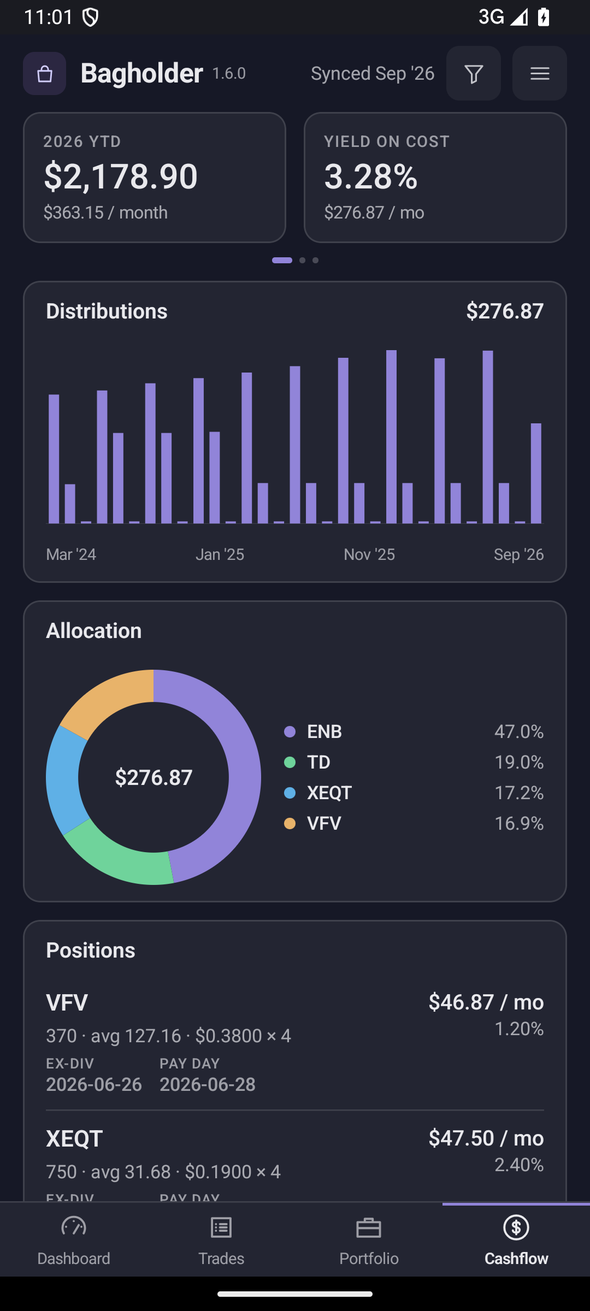
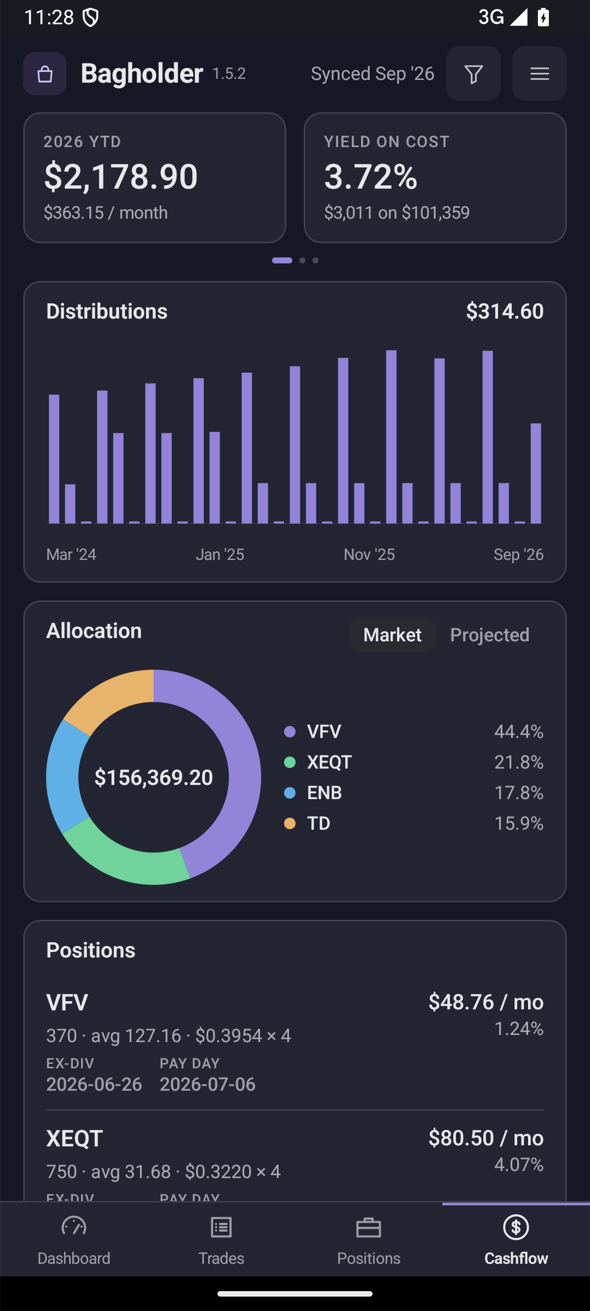
Phones keep their Cashflow screens: the Cashflow tweaks are desktop-only.
The Market / Projected switch, the tile lines and the tile set on the
phones are back to master's; only a tile the phones do not show is
kept out of their year tiles. The models stay in agreement, as the
shared cases require. SPEC §8 and the README phone images back to
master's.

diff --git a/ios/Bagholder/Screens.swift b/ios/Bagholder/Screens.swift
@@ -1111,6 +1111,7 @@ struct CashflowScreen: View {
     @Environment(\.theme) private var t
     @ObservedObject var book: Book
     let chrome: Chrome
+    @AppStorage("bagholder.allocationBy") private var allocBy = "market"
     @State private var picked: Int?
     @State private var distPick: Int? = nil
 
@@ -1145,15 +1146,15 @@ struct CashflowScreen: View {
     private func tiles(_ cf: BHCashflowView) -> some View {
         func tile(_ tile: BHTile) -> Tile {
             if tile.label == "Yield on cost" {
-                return Tile(label: tile.label, value: BHFmt.pct(tile.yield, digits: 2, signed: false), subtitle: BHFmt.money(tile.projected) + " / mo")
+                return Tile(label: tile.label, value: BHFmt.pct(tile.yield, digits: 2, signed: false), subtitle: BHFmt.wholeMoney(tile.earned) + " on " + BHFmt.wholeMoney(tile.book))
             }
-            return Tile(label: tile.label, value: BHFmt.money(tile.total), subtitle: tile.label == "All time" ? "total earned" : BHFmt.money(tile.perMonth) + " / month")
+            return Tile(label: tile.label, value: BHFmt.money(tile.total), subtitle: BHFmt.money(tile.perMonth) + " / month")
         }
         // YTD and Yield on cost first, then All time and the past years
         let ytd = cf.tiles.first { $0.label.hasSuffix("YTD") }
         let yoc = cf.tiles.first { $0.label == "Yield on cost" }
         let all = cf.tiles.first { $0.label == "All time" }
-        let years = cf.tiles.filter { !$0.label.hasSuffix("YTD") && $0.label != "Yield on cost" && $0.label != "All time" }.reversed()
+        let years = cf.tiles.filter { !$0.label.hasSuffix("YTD") && $0.label != "Yield on cost" && $0.label != "All time" && $0.label != "Margin used" }.reversed()
         let ordered = [ytd, yoc, all].compactMap { $0 } + years
         return TilePager(tiles: ordered.map(tile))
     }
@@ -1173,10 +1174,18 @@ struct CashflowScreen: View {
 
     private func allocation(_ cf: BHCashflowView) -> some View {
         let items: [(label: String, value: Double)] = cf.holdings.map { h in
-            (h.symbol + (cf.holdings.filter { $0.symbol == h.symbol }.count > 1 ? " · " + h.account : ""), (h.annual ?? 0) / 12)
+            (h.symbol + (cf.holdings.filter { $0.symbol == h.symbol }.count > 1 ? " · " + h.account : ""), allocBy == "projected" ? (h.annual ?? 0) / 12 : h.qty * h.last)
         }.filter { $0.value > 0 }.sorted { $0.value > $1.value }
         let total = items.reduce(0.0) { $0 + $1.value }
-        return Card(title: "Allocation") {
+        let switcher = HStack(spacing: 0) {
+            ForEach(["market", "projected"], id: \.self) { k in
+                Button(k == "market" ? "Market" : "Projected") { allocBy = k; picked = nil }
+                    .font(.system(size: 13, weight: .medium)).foregroundStyle(allocBy == k ? t.ink : t.ink55)
+                    .padding(.horizontal, 10).padding(.vertical, 4)
+                    .background(RoundedRectangle(cornerRadius: 7).fill(allocBy == k ? t.well : .clear))
+            }
+        }
+        return Card(title: "Allocation", trailing: AnyView(switcher)) {
             if items.isEmpty { Text("No income holdings in scope.").font(.system(size: 14)).foregroundStyle(t.ink55) }
             else {
                 HStack(alignment: .center, spacing: 16) {

diff --git a/android/app/src/main/kotlin/com/bagholder/app/MainActivity.kt b/android/app/src/main/kotlin/com/bagholder/app/MainActivity.kt
@@ -991,6 +991,7 @@ fun rateLine(h: Holding): String {
 fun CashflowScreen(chrome: Chrome) {
     val t = LocalTheme.current
     val v = Book.view
+    var allocBy by remember { mutableStateOf(Store.allocationBy) }
     var picked by remember { mutableStateOf<Int?>(null) }
     var distPick by remember { mutableStateOf<Int?>(null) }
     Column(Modifier.fillMaxSize()) {
@@ -1012,10 +1013,17 @@ fun CashflowScreen(chrome: Chrome) {
             }
             item {
                 val items = cf.holdings.map { h ->
-                    Pair(h.symbol + if (cf.holdings.count { it.symbol == h.symbol } > 1) " · " + h.account else "", (h.annual ?: 0.0) / 12)
+                    Pair(h.symbol + if (cf.holdings.count { it.symbol == h.symbol } > 1) " · " + h.account else "", if (allocBy == "projected") (h.annual ?: 0.0) / 12 else h.qty * h.last)
                 }.filter { it.second > 0 }.sortedByDescending { it.second }
                 val total = items.sumOf { it.second }
-                Card("Allocation") {
+                Card("Allocation", trailing = {
+                    Row {
+                        for (k in listOf("market", "projected")) {
+                            Text(if (k == "market") "Market" else "Projected", fontSize = 13.sp, fontWeight = FontWeight.Medium, color = if (allocBy == k) t.ink else t.ink55,
+                                modifier = Modifier.clip(RoundedCornerShape(7.dp)).background(if (allocBy == k) t.well else Color.Transparent).clickable { allocBy = k; Store.allocationBy = k; picked = null }.padding(horizontal = 10.dp, vertical = 4.dp))
+                        }
+                    }
+                }) {
                     if (items.isEmpty()) Muted("No income holdings in scope.")
                     else Row(verticalAlignment = Alignment.CenterVertically, horizontalArrangement = Arrangement.spacedBy(16.dp)) {
                         DonutChart(items, picked, { picked = it })
@@ -1090,13 +1098,13 @@ private fun CashflowTiles(cf: CashflowView) {
     val ytd = cf.tiles.firstOrNull { it.label.endsWith("YTD") }
     val yoc = cf.tiles.firstOrNull { it.label == "Yield on cost" }
     val all = cf.tiles.firstOrNull { it.label == "All time" }
-    val years = cf.tiles.filter { !it.label.endsWith("YTD") && it.label != "Yield on cost" && it.label != "All time" }.reversed()
+    val years = cf.tiles.filter { !it.label.endsWith("YTD") && it.label != "Yield on cost" && it.label != "All time" && it.label != "Margin used" }.reversed()
     val ordered = listOfNotNull(ytd, yoc, all) + years
     val tiles = mutableListOf<@Composable (Modifier) -> Unit>()
     for (tile in ordered) {
         tiles.add { m ->
-            if (tile.label == "Yield on cost") Tile(tile.label, Fmt.pct(tile.yield, 2, false), Fmt.money(tile.projected) + " / mo", modifier = m)
-            else Tile(tile.label, Fmt.money(tile.total), if (tile.label == "All time") "total earned" else Fmt.money(tile.perMonth) + " / month", modifier = m)
+            if (tile.label == "Yield on cost") Tile(tile.label, Fmt.pct(tile.yield, 2, false), Fmt.wholeMoney(tile.earned) + " on " + Fmt.wholeMoney(tile.book), modifier = m)
+            else Tile(tile.label, Fmt.money(tile.total), Fmt.money(tile.perMonth) + " / month", modifier = m)
         }
     }
     TilePager(tiles)

diff --git a/android/app/src/main/kotlin/com/bagholder/app/Store.kt b/android/app/src/main/kotlin/com/bagholder/app/Store.kt
@@ -180,4 +180,7 @@ object Store {
         else -> v
     }
 
+    var allocationBy: String
+        get() = prefs.getString("allocationBy", "market") ?: "market"
+        set(v) = prefs.edit().putString("allocationBy", v).apply()
 }

diff --git a/SPEC.md b/SPEC.md
@@ -286,7 +286,7 @@ The iOS and Android apps show the same figures as the web page, computed on the 
 
 **Cards.** 12 pt above and below the content, 16 pt at the sides, a 24 pt header row with a 15 pt semibold title at its top; a control at the right of the header (the index toggle, a sort menu, a figure) sits in that row. Nothing under a title: no captions, subtitles or helper lines, no "All accounts", no "Vs S&P 500" (the toggle itself reads `Vs S&P 500`), no "CAD", no "Outperformed … in N of M years", no "Dividend" beside a history row.
 
-**Tiles.** Two per page in a row that swipes sideways, with the indicator below: 4 pt dots at 24 % ink, a 14 × 4 accent pill for the current page. Dashboard: Realized P&L, Win rate; Profit factor, Expectancy; Max drawdown, Avg annualized. Portfolio: Market value, Net asset value; Cost basis, Margin used; Available margin, Unrealized P&L. Cashflow: the year to date, Yield on cost; All time, Margin used (its line `$x/mo margin interest` in whole dollars); then the past years, newest first.
+**Tiles.** Two per page in a row that swipes sideways, with the indicator below: 4 pt dots at 24 % ink, a 14 × 4 accent pill for the current page. Dashboard: Realized P&L, Win rate; Profit factor, Expectancy; Max drawdown, Avg annualized. Portfolio: Market value, Net asset value; Cost basis, Margin used; Available margin, Unrealized P&L. Cashflow: the year to date, Yield on cost; All time, then the past years, newest first.
 
 **Charts.** No value axis. The card's figure sits at its top right: Equity shows the latest point, P&L the sum in scope, Distributions the projected month. The Equity line runs edge to edge, scaled from its low to its high, 160 pt tall, four date labels below. A long press reads the point under the finger from the first touch: the figure at the top right becomes that day's or month's, the date or month appears at the bottom under the finger, the rest of the chart dims (the equity line and its fill keep their colour up to the finger, the marker is a ring), and the page and any pager hold still until release. Bars fill their month's slot 4 pt apart on the web page's scale (§4); a tap on a P&L bar opens the month.
 
@@ -294,7 +294,7 @@ The iOS and Android apps show the same figures as the web page, computed on the 
 
 **Portfolio.** Tiles; Allocation (the donut, one slice each up to ten holdings and otherwise the ten largest and `Other (N)`, with the symbols and their shares beside it); Holdings, each row the symbol (`SHORT` on a short) with `account · Book · Market` under it on the left, the unrealized P&L over its percentage on the right, then `Today` with the day's change and percent, or `—` without a quote; sorted by unrealized P&L. A tap opens the holding on the screen a trade opens, titled `Holding`: the chart with the fills, Open, Close (blank), Entry, Exit, Qty, Hold, Account, the executions and the journal.
 
-**Cashflow.** Tiles; Distributions (the monthly bars in the accent colour); Allocation (the donut by projected monthly income, with the symbols and their shares beside it); Positions, each row the symbol with `shares · avg · dist × freq` under it on the left, the month's payout over the yield on cost on the right, then Ex-Div and Pay Day; History, each row the symbol, `date · qty × per`, the amount and its currency, without the payment kind.
+**Cashflow.** Tiles; Distributions (the monthly bars in the accent colour); Allocation with its Market/Projected toggle; Positions, each row the symbol with `shares · avg · dist × freq` under it on the left, the month's payout over the yield on cost on the right, then Ex-Div and Pay Day; History, each row the symbol, `date · qty × per`, the amount and its currency, without the payment kind.
 
 **Connecting.** Connect opens Wealthsimple's sign-in page in the app's own web view, kept loaded ahead of the tap, and captures the session from its cookies once signed in; sign in with email, password and the two-factor code. A passkey does not work inside an app's web view on either platform: iOS refuses the request unless the app is a browser or the site lists the app, and Android's web view hides the button; that is the platforms' rule, not a fault to fix.
 
